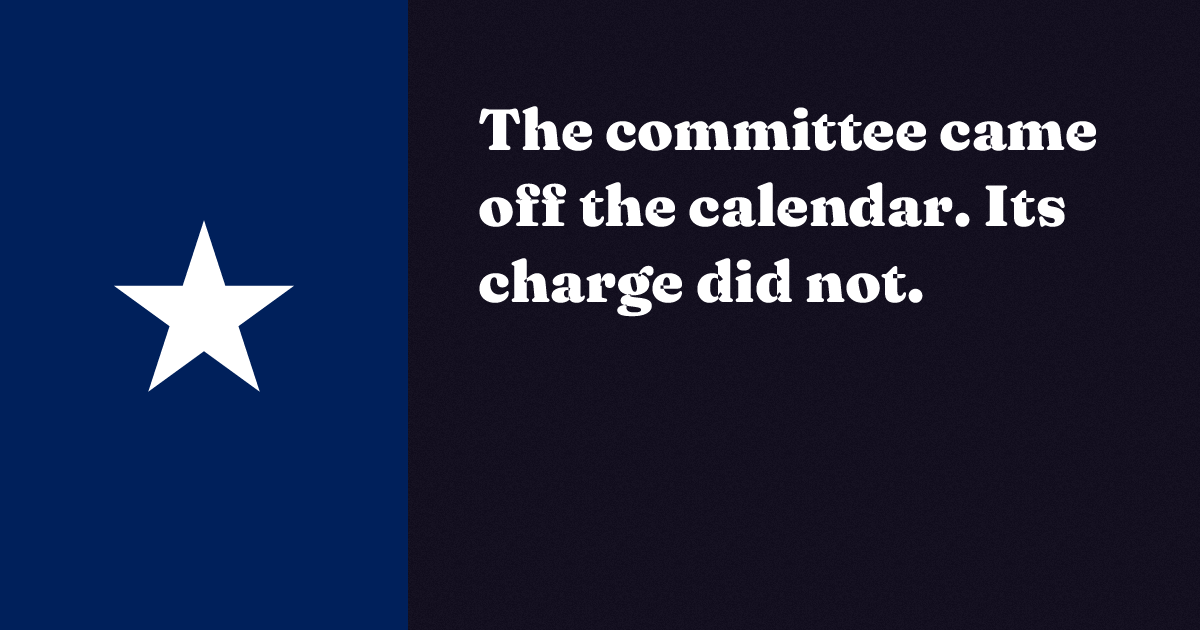
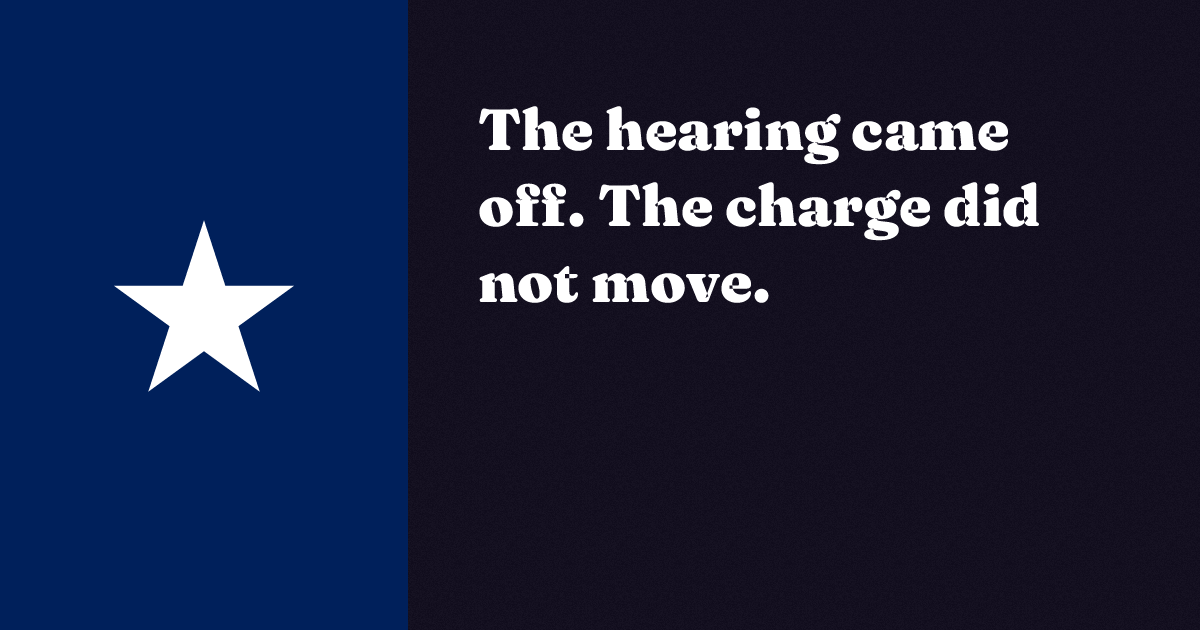
Site rebuilt against the held deck, and the email says it held
The site is fresh again, 767 files matching a rebuild byte for byte, which was
the freshness job's failure on the first push: docs/ had not been rebuilt against
the new run.

gates.json was writing nested dicts into the email's own gate table, so the mail
rendered a Python repr where a reader needed a word. It is flat now and it
carries the ten site and ledger gates gate_status does not read.

The email states the score, says the deck did not meet the bar, and points its
image urls at the run branch rather than at main, because a run that HOLDS does
not merge and the pictures are not on main to link.

Actor: daily

Changed region(s): [[0.4625, 0.2714, 0.8942, 0.3921], [0.4933, 0.1508, 0.925, 0.2714], [0.4008, 0.3921, 0.7708, 0.5127]]

diff --git a/docs/articles/2026-09-02/index.html b/docs/articles/2026-09-02/index.html
@@ -1,20 +1,20 @@
 <!doctype html>
 <html lang="en-US">
 <head>
-<meta http-equiv="Content-Security-Policy" content="default-src 'self'; base-uri 'self'; object-src 'none'; script-src 'self' 'sha256-hgqW7ipzhyjjVnmRohFk9jqMcnte2GXb98xOt+E0vgw=' 'sha256-F9TOw90k0mV6PXqA00p8PBXMbwkBuJOI0e5xmIraedM=' https://challenges.cloudflare.com; style-src 'self'; style-src-attr 'unsafe-inline'; img-src 'self' data: https://raw.githubusercontent.com; media-src 'self' https://raw.githubusercontent.com; font-src 'self'; connect-src 'self' https://formsubmit.co https://challenges.cloudflare.com https://texas-ask.talon-sturgill.workers.dev https://texas-scan.talon-sturgill.workers.dev; frame-src https://challenges.cloudflare.com; form-action 'self' https://formsubmit.co">
+<meta http-equiv="Content-Security-Policy" content="default-src 'self'; base-uri 'self'; object-src 'none'; script-src 'self' 'sha256-gQUdkIgLqhGEXjOvuqyuT2EFUZ3QvedBh9bm/FHdI9c=' 'sha256-F9TOw90k0mV6PXqA00p8PBXMbwkBuJOI0e5xmIraedM=' https://challenges.cloudflare.com; style-src 'self'; style-src-attr 'unsafe-inline'; img-src 'self' data: https://raw.githubusercontent.com; media-src 'self' https://raw.githubusercontent.com; font-src 'self'; connect-src 'self' https://formsubmit.co https://challenges.cloudflare.com https://texas-ask.talon-sturgill.workers.dev https://texas-scan.talon-sturgill.workers.dev; frame-src https://challenges.cloudflare.com; form-action 'self' https://formsubmit.co">
 <meta charset="utf-8">
 <meta name="viewport" content="width=device-width,initial-scale=1">
-<title>The committee came off the calendar. Its charge did not. · Texas AI Docket</title>
+<title>The hearing came off. The charge did not move. · Texas AI Docket</title>
 <meta name="description" content="Nine in the morning. No hearing. Thursday September 3rd, 2026. Room E1.016. The listing puts it in parentheses.">
 <link rel="canonical" href="https://texasaidocket.com/articles/2026-09-02/">
-<meta property="og:title" content="The committee came off the calendar. Its charge did not. · Texas AI Docket">
+<meta property="og:title" content="The hearing came off. The charge did not move. · Texas AI Docket">
 <meta property="og:description" content="Nine in the morning. No hearing. Thursday September 3rd, 2026. Room E1.016. The listing puts it in parentheses.">
 <meta property="og:type" content="article">
 <meta property="og:url" content="https://texasaidocket.com/articles/2026-09-02/">
 <meta property="og:image" content="https://texasaidocket.com/og/article-2026-09-02.png">
 <meta property="og:image:width" content="1200">
 <meta property="og:image:height" content="630">
-<meta property="og:image:alt" content="The committee came off the calendar. Its charge did not.">
+<meta property="og:image:alt" content="The hearing came off. The charge did not move.">
 <meta property="og:site_name" content="Texas AI Docket">
 <meta property="og:locale" content="en_US">
 <meta name="twitter:card" content="summary_large_image">
@@ -26,7 +26,7 @@
 <link rel="stylesheet" href="../../site.css?v=81785e0710">
 <link rel="preload" href="../../fonts/manrope.woff2" as="font" type="font/woff2" crossorigin>
 <link rel="alternate" type="application/atom+xml" title="Texas AI Docket" href="../../atom.xml">
-<script type="application/ld+json">[{"@context":"https://schema.org","@type":"WebSite","@id":"https://texasaidocket.com/#website","name":"Texas AI Docket","url":"https://texasaidocket.com","inLanguage":"en-US","publisher":{"@id":"https://texasaidocket.com/#org"}},{"@context":"https://schema.org","@type":"Organization","@id":"https://texasaidocket.com/#org","name":"Texas AI Docket","url":"https://texasaidocket.com/","description":"A public, fact-checked record of decisions about artificial intelligence in Texas.","logo":{"@type":"ImageObject","@id":"https://texasaidocket.com/#logo","url":"https://texasaidocket.com/apple-touch-icon.png","contentUrl":"https://texasaidocket.com/apple-touch-icon.png","width":180,"height":180},"sameAs":["https://www.linkedin.com/company/texasaidocket/","https://www.facebook.com/Texasaidocket","https://www.instagram.com/texasaidocket","https://www.youtube.com/@TexasAIDocket","https://x.com/TexasAIDocket","https://www.tiktok.com/@texas.ai.docket"]},{"@context":"https://schema.org","@type":"NewsArticle","@id":"https://texasaidocket.com/articles/2026-09-02/#article","headline":"The committee came off the calendar. Its charge did not.","description":"Nine in the morning. No hearing. Thursday September 3rd, 2026. Room E1.016. The listing puts it in parentheses.","url":"https://texasaidocket.com/articles/2026-09-02/","mainEntityOfPage":{"@type":"WebPage","@id":"https://texasaidocket.com/articles/2026-09-02/"},"inLanguage":"en-US","isAccessibleForFree":true,"license":"https://creativecommons.org/licenses/by/4.0/","datePublished":"2026-09-02","dateModified":"2026-09-02","author":{"@id":"https://texasaidocket.com/#org"},"publisher":{"@id":"https://texasaidocket.com/#org"},"image":["https://texasaidocket.com/og/article-2026-09-02.png"],"articleSection":"Texas artificial intelligence","keywords":["Texas","artificial intelligence","data centers","ERCOT"]},{"@context":"https://schema.org","@type":"BreadcrumbList","itemListElement":[{"@type":"ListItem","position":1,"name":"Texas AI Docket","item":"https://texasaidocket.com/"},{"@type":"ListItem","position":2,"name":"Articles","item":"https://texasaidocket.com/articles/"},{"@type":"ListItem","position":3,"name":"The committee came off the calendar. Its charge did not.","item":"https://texasaidocket.com/articles/2026-09-02/"}]}]</script>
+<script type="application/ld+json">[{"@context":"https://schema.org","@type":"WebSite","@id":"https://texasaidocket.com/#website","name":"Texas AI Docket","url":"https://texasaidocket.com","inLanguage":"en-US","publisher":{"@id":"https://texasaidocket.com/#org"}},{"@context":"https://schema.org","@type":"Organization","@id":"https://texasaidocket.com/#org","name":"Texas AI Docket","url":"https://texasaidocket.com/","description":"A public, fact-checked record of decisions about artificial intelligence in Texas.","logo":{"@type":"ImageObject","@id":"https://texasaidocket.com/#logo","url":"https://texasaidocket.com/apple-touch-icon.png","contentUrl":"https://texasaidocket.com/apple-touch-icon.png","width":180,"height":180},"sameAs":["https://www.linkedin.com/company/texasaidocket/","https://www.facebook.com/Texasaidocket","https://www.instagram.com/texasaidocket","https://www.youtube.com/@TexasAIDocket","https://x.com/TexasAIDocket","https://www.tiktok.com/@texas.ai.docket"]},{"@context":"https://schema.org","@type":"NewsArticle","@id":"https://texasaidocket.com/articles/2026-09-02/#article","headline":"The hearing came off. The charge did not move.","description":"Nine in the morning. No hearing. Thursday September 3rd, 2026. Room E1.016. The listing puts it in parentheses.","url":"https://texasaidocket.com/articles/2026-09-02/","mainEntityOfPage":{"@type":"WebPage","@id":"https://texasaidocket.com/articles/2026-09-02/"},"inLanguage":"en-US","isAccessibleForFree":true,"license":"https://creativecommons.org/licenses/by/4.0/","datePublished":"2026-09-02","dateModified":"2026-09-02","author":{"@id":"https://texasaidocket.com/#org"},"publisher":{"@id":"https://texasaidocket.com/#org"},"image":["https://texasaidocket.com/og/article-2026-09-02.png"],"articleSection":"Texas artificial intelligence","keywords":["Texas","artificial intelligence","data centers","ERCOT"]},{"@context":"https://schema.org","@type":"BreadcrumbList","itemListElement":[{"@type":"ListItem","position":1,"name":"Texas AI Docket","item":"https://texasaidocket.com/"},{"@type":"ListItem","position":2,"name":"Articles","item":"https://texasaidocket.com/articles/"},{"@type":"ListItem","position":3,"name":"The hearing came off. The charge did not move.","item":"https://texasaidocket.com/articles/2026-09-02/"}]}]</script>
 </head>
 <body>
 <a class="skip" href="#main">Skip to the record</a>
@@ -41,7 +41,7 @@
 <main id="main" class="wrap">
 
 <article>
-<h1>The committee came off the calendar. Its charge did not.</h1>
+<h1>The hearing came off. The charge did not move.</h1>
 <p class="meta" data-prose="data"><span class="tag">Published September 2nd</span>
   <span>9 slides</span></p>
 
@@ -49,7 +49,7 @@
 <div class="slides"><img src="https://raw.githubusercontent.com/Talonsturgill/TexasAIDocket/main/runs/carousel/2026-09-02/slide-01.webp" width="1080" height="1350" loading="lazy" alt="Slide 1 of 9"><img src="https://raw.githubusercontent.com/Talonsturgill/TexasAIDocket/main/runs/carousel/2026-09-02/slide-02.webp" width="1080" height="1350" loading="lazy" alt="Slide 2 of 9"><img src="https://raw.githubusercontent.com/Talonsturgill/TexasAIDocket/main/runs/carousel/2026-09-02/slide-03.webp" width="1080" height="1350" loading="lazy" alt="Slide 3 of 9"><img src="https://raw.githubusercontent.com/Talonsturgill/TexasAIDocket/main/runs/carousel/2026-09-02/slide-04.webp" width="1080" height="1350" loading="lazy" alt="Slide 4 of 9"><img src="https://raw.githubusercontent.com/Talonsturgill/TexasAIDocket/main/runs/carousel/2026-09-02/slide-05.webp" width="1080" height="1350" loading="lazy" alt="Slide 5 of 9"><img src="https://raw.githubusercontent.com/Talonsturgill/TexasAIDocket/main/runs/carousel/2026-09-02/slide-06.webp" width="1080" height="1350" loading="lazy" alt="Slide 6 of 9"><img src="https://raw.githubusercontent.com/Talonsturgill/TexasAIDocket/main/runs/carousel/2026-09-02/slide-07.webp" width="1080" height="1350" loading="lazy" alt="Slide 7 of 9"><img src="https://raw.githubusercontent.com/Talonsturgill/TexasAIDocket/main/runs/carousel/2026-09-02/slide-08.webp" width="1080" height="1350" loading="lazy" alt="Slide 8 of 9"><img src="https://raw.githubusercontent.com/Talonsturgill/TexasAIDocket/main/runs/carousel/2026-09-02/slide-09.webp" width="1080" height="1350" loading="lazy" alt="Slide 9 of 9"></div>
 
 <h2>The story</h2>
-<div class="prose"><p>Nine in the morning. No hearing.</p><p>Thursday September 3rd, 2026. Room E1.016.</p><p>The listing puts it in parentheses.</p><p>Texas Legislature Online, upcoming Senate committee meetings. Retrieved September 2nd, 2026. c1.</p><p>The listing gives no subject.</p><p>The row carries the committee, the hour, the type and the room, and no agenda. The notice that would carry an agenda sits behind a path this record does not crawl. c1 c2.</p><p>One course. One block never laid.</p><p>9:00 AM · E1.016 the listing carries one more no cancellation note.</p><p>Each block is a day. The course runs from the canceled hearing to the date the listing carries now. c1 c2 c3 c25.</p><p>Senate Committee on Economic Development. Titled &quot;Preparing the Texas Workforce for AI (Artificial Intelligence)&quot;.</p><blockquote>&quot;Study the impact of AI on the Texas workforce and its implications for economic competitiveness.&quot;</blockquote><p>The charge closes by asking the committee to &quot;Make recommendations to ensure the Texas labor market remains a national leader in growth and opportunity.&quot;.</p><p>Three institutions. Three different answers.</p><p>ChatGPT for Teachers for all staff in October. The district said student access would not follow immediately.</p><blockquote>&quot;in the early stages of exploring opportunities to leverage OpenAI&#x27;s ChatGPT technology&quot;</blockquote><p>Each instructor may &quot;permit, partially permit, or prohibit&quot; generative AI.</p><p>Each plate carries that institution&#x27;s answer. Nothing ranks them. c8 c9 c12 c14.</p><p>The scheduling ran anyway.</p><blockquote>&quot;Timpani is used for making patient assignments, staffing, and to the detriment of the nurses, sometimes they short-staff them.&quot;</blockquote><p>Protesters gathered near Riverside Drive and South Congress Avenue in Austin. The report ties the tool to HCA Healthcare and names no hospital where it runs. c17 c19.</p><p>The AI servers had a record quarter.</p><p>One figure is orders booked in one segment. The other is revenue across the whole company. Exhibit 99.1 to Form 8-K.</p><p>The room is booked again.</p><p>The listing gives it as a public hearing in E1.016, and puts no cancellation note on the row.</p><p>What should the committee hear on September 22nd?</p><p>Texas Legislature Online lists it as a public hearing. Retrieved September 2nd, 2026. c3 c25.</p></div>
+<div class="prose"><p>Nine in the morning. No hearing.</p><p>Thursday September 3rd, 2026. Room E1.016.</p><p>The listing puts it in parentheses.</p><p>Texas Legislature Online, upcoming Senate committee meetings. Retrieved September 2nd, 2026. c1.</p><p>The listing gives no subject.</p><p>The row carries the committee, the hour, the type and the room, and no agenda. The notice that would carry an agenda sits behind a path this record does not crawl. c1 c2.</p><p>One course. One block never laid.</p><p>9:00 AM · E1.016 the listing carries one more no cancellation note.</p><p>Each block is a day. The course runs from the canceled hearing to the date the listing carries now. c1 c2 c3 c25.</p><p>Senate Committee on Economic Development. Titled &quot;Preparing the Texas Workforce for AI (Artificial Intelligence)&quot;.</p><blockquote>&quot;Study the impact of AI on the Texas workforce and its implications for economic competitiveness.&quot;</blockquote><p>The charge closes by asking the committee to &quot;Make recommendations to ensure the Texas labor market remains a national leader in growth and opportunity.&quot;.</p><p>Three institutions. Three different answers.</p><p>ChatGPT for Teachers for all staff in October. Student access would not follow yet.</p><blockquote>&quot;in the early stages of exploring opportunities to leverage OpenAI&#x27;s ChatGPT technology&quot;</blockquote><p>Instructors may &quot;permit, partially permit, or prohibit&quot; generative AI.</p><p>Each plate is that institution&#x27;s answer. Nothing ranks them. c8 c9 c12 c14.</p><p>A union member says it makes the assignments.</p><blockquote>&quot;Timpani is used for making patient assignments, staffing, and to the detriment of the nurses, sometimes they short-staff them.&quot;</blockquote><p>Protesters gathered near Riverside Drive and South Congress Avenue in Austin. The report ties the tool to HCA Healthcare and names no hospital. c17 c19.</p><p>The AI servers had a record quarter.</p><p>One figure is orders booked in one segment. The other is revenue across the whole company. Exhibit 99.1 to Form 8-K.</p><p>The room is booked again.</p><p>The listing gives it as a public hearing in E1.016, and puts no cancellation note on the row.</p><p>What should the committee hear on September 22nd?</p><p>Texas Legislature Online lists it as a public hearing. Retrieved September 2nd, 2026. c3 c25.</p></div>
 
 <h2>What was verified</h2>
 <p class="meta" data-prose="data"><span class="num">25</span> claims, each re-fetched

diff --git a/docs/articles/index.html b/docs/articles/index.html
@@ -46,9 +46,9 @@
 </div>
 <div class="deckgrid"><a class="deck" href="2026-09-02/">
   <img src="https://raw.githubusercontent.com/Talonsturgill/TexasAIDocket/main/runs/carousel/2026-09-02/slide-01.webp" width="1080" height="1350"
-       loading="lazy" alt="Cover slide, The committee came off the calendar. Its charge did not.">
+       loading="lazy" alt="Cover slide, The hearing came off. The charge did not move.">
   <span class="meta" data-prose="data"><span class="tag">September 2nd</span><span>9 slides</span></span>
-  <h3>The committee came off the calendar. Its charge did not.</h3>
+  <h3>The hearing came off. The charge did not move.</h3>
   <p class="tease">Nine in the morning. No hearing. Thursday September 3rd, 2026. Room E1.016.</p></a><a class="deck" href="2026-08-30/">
   <img src="https://raw.githubusercontent.com/Talonsturgill/TexasAIDocket/main/runs/carousel/2026-08-30/slide-01.png" width="1080" height="1350"
        loading="lazy" alt="Cover slide, The fee, the network, and who was reading it">

diff --git a/docs/index.html b/docs/index.html
@@ -1883,11 +1883,11 @@ function askFuse(lists) {
     <a class="cover" href="articles/2026-09-02/"><img
       src="https://raw.githubusercontent.com/Talonsturgill/TexasAIDocket/main/runs/carousel/2026-09-02/slide-01.webp"
       width="1080" height="1350" loading="lazy"
-      alt="Cover slide, The committee came off the calendar. Its charge did not."></a>
+      alt="Cover slide, The hearing came off. The charge did not move."></a>
     <div>
       <p class="meta" data-prose="data"><span class="tag">Published September 2nd</span>
         <span>9 slides</span></p>
-      <h3>The committee came off the calendar. Its charge did not.</h3>
+      <h3>The hearing came off. The charge did not move.</h3>
       <p>Nine in the morning. No hearing. Thursday September 3rd, 2026. Room E1.016.</p>
       <div class="ctarow">
         <a class="cta ghost" href="articles/2026-09-02/">Read it</a>

diff --git a/runs/carousel/2026-09-02/RUN_RECORD.md b/runs/carousel/2026-09-02/RUN_RECORD.md
@@ -92,7 +92,7 @@ Both are real and neither is repairable by another copy pass.
 | qa             | PASS   | 9 slide(s), zero fails, zero warns |
 | aggregates     | PASS   | 6 declaration(s), 6 numeric phrase(s) in the render, all re-derived |
 | assembly       | PASS   | 9 slide(s), 5.71 MB, vector |
-| score          | STALE  | score.json predates the newest render, so it describes a deck that no longer exists. Re-run it |
+| score          | FAIL   | 6.562, below threshold |
 | labels         | PASS   | 0 claim id(s) checked, every label beside one traces to the shape its claim proves |
 | quantifiers    | PASS   | 72 published string(s) read from one list, every universal names its set |
 | dossiers       | PASS   | 43,896 chars planned |
